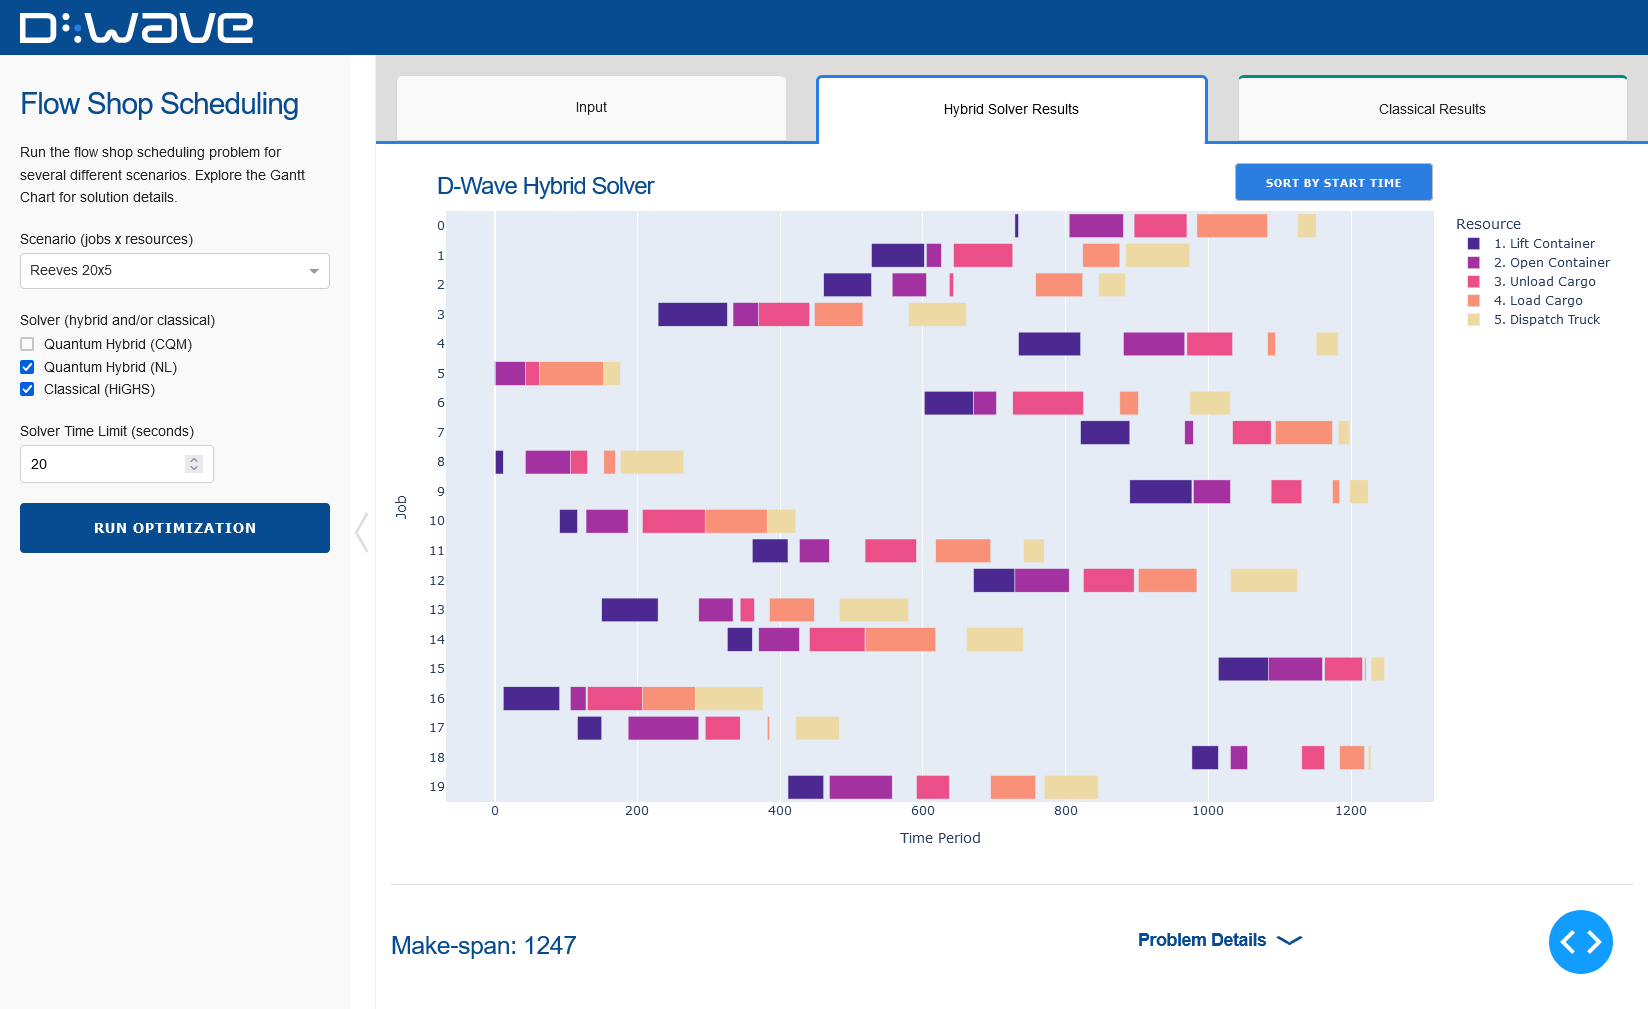
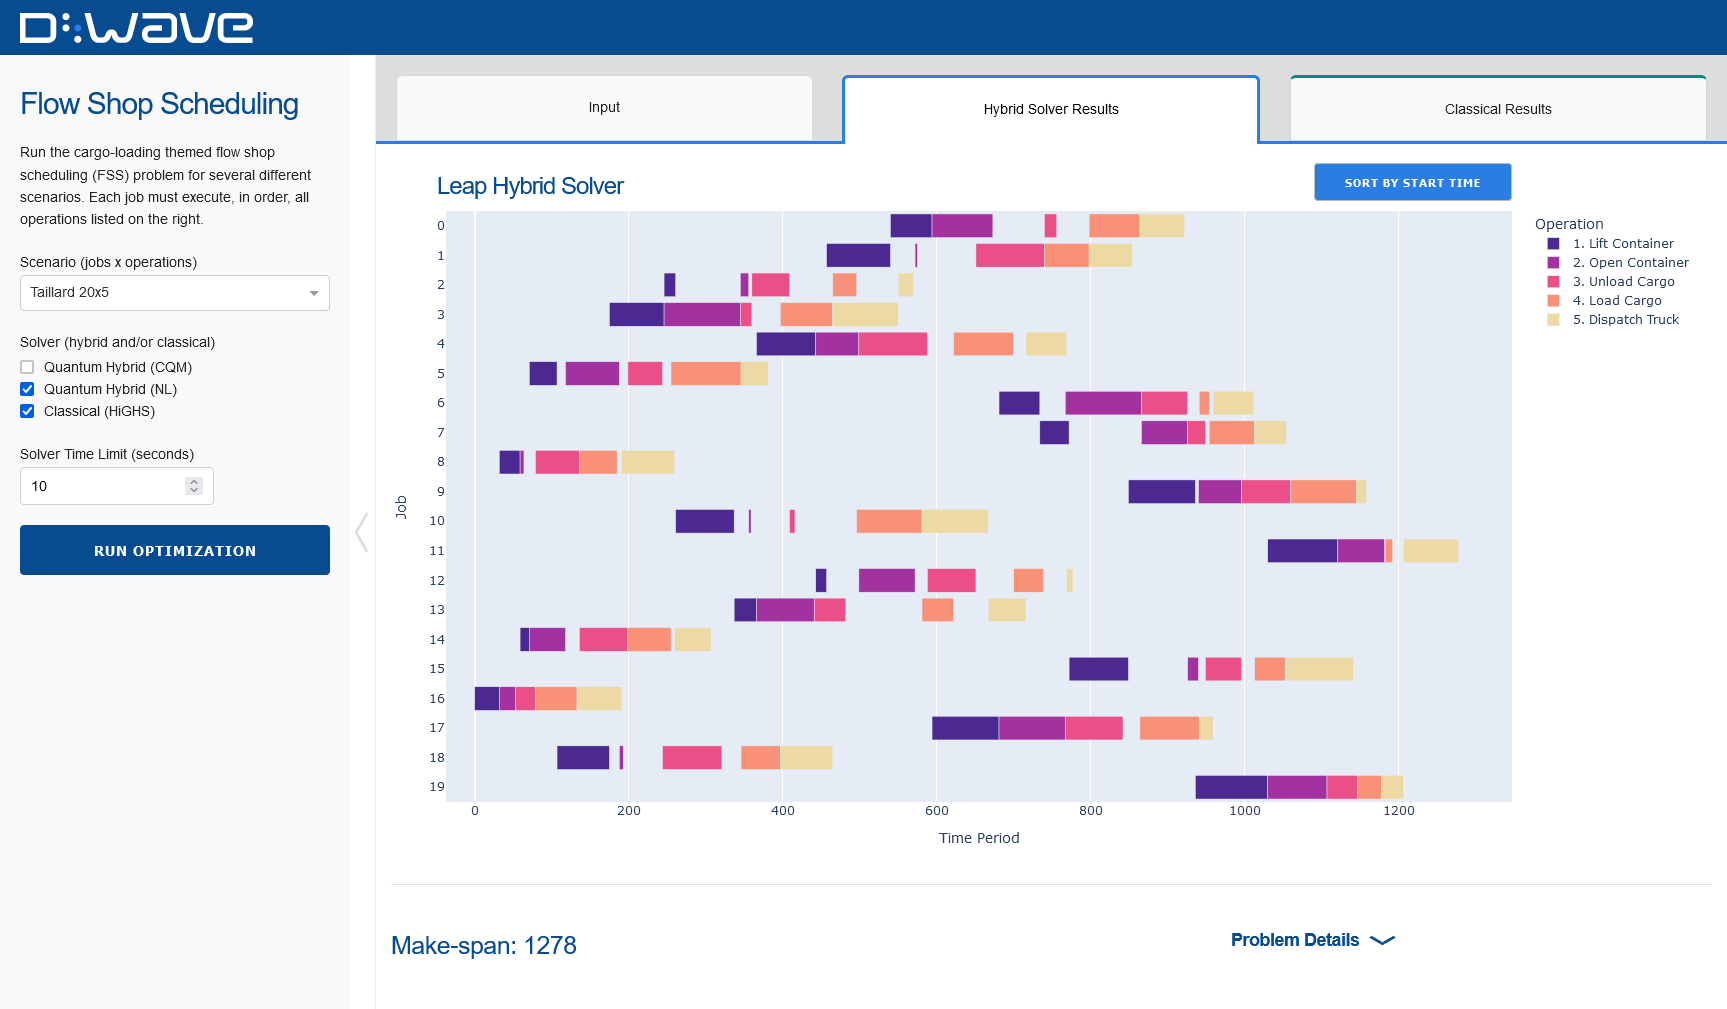
Update hybrid title

diff --git a/dash_html.py b/dash_html.py
@@ -286,7 +286,7 @@ def set_html(app):
                                                         html.Div(
                                                             [
                                                                 html.H3(
-                                                                    "D-Wave Hybrid Solver",
+                                                                    "Leap Hybrid Solver",
                                                                     className="gantt-title",
                                                                 ),
                                                                 html.Button(id="dwave-sort-button", children="Sort by start time", n_clicks=0),
